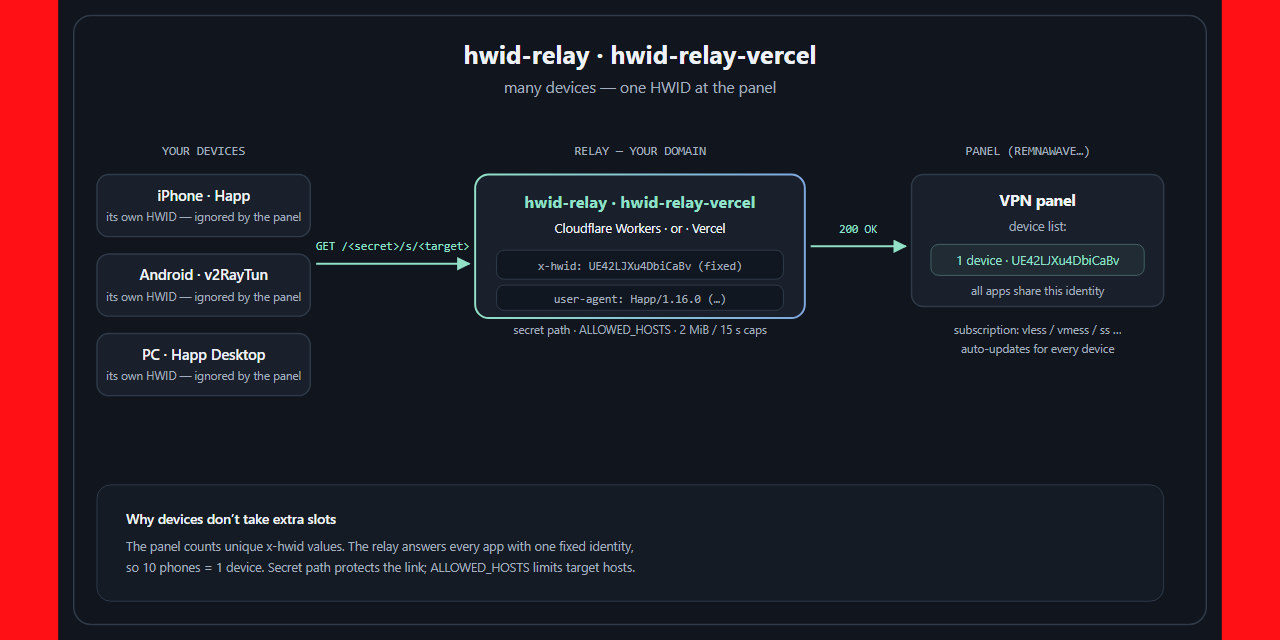
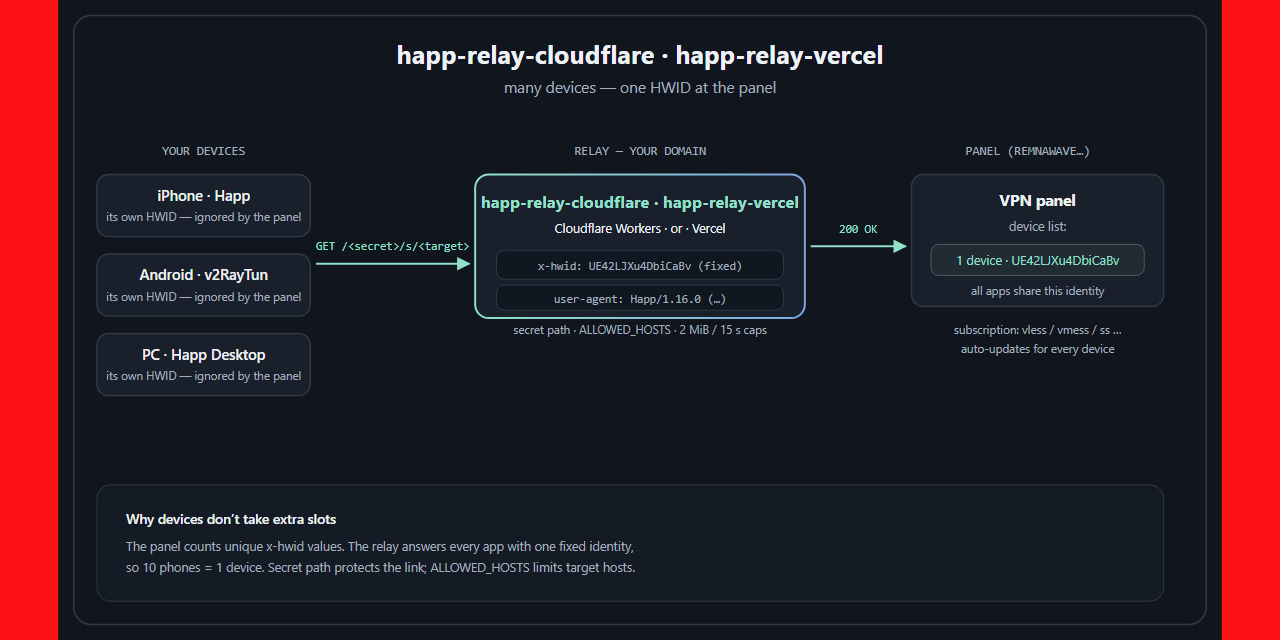
Rename to happ-relay-cloudflare: links, docs, diagram

Changed region(s): [[0.3125, 0.0625, 0.6875, 0.125], [0.375, 0.3125, 0.625, 0.3438]]

diff --git a/README.ru.md b/README.ru.md
@@ -1,7 +1,7 @@
-# hwid-relay
+# happ-relay-cloudflare
 
-[![Tests](https://github.com/cylaro/hwid-relay/actions/workflows/test.yml/badge.svg)](https://github.com/cylaro/hwid-relay/actions/workflows/test.yml)
-[![Deploy to Cloudflare Workers](https://deploy.workers.cloudflare.com/button)](https://deploy.workers.cloudflare.com/?url=https://github.com/cylaro/hwid-relay)
+[![Tests](https://github.com/cylaro/happ-relay-cloudflare/actions/workflows/test.yml/badge.svg)](https://github.com/cylaro/happ-relay-cloudflare/actions/workflows/test.yml)
+[![Deploy to Cloudflare Workers](https://deploy.workers.cloudflare.com/button)](https://deploy.workers.cloudflare.com/?url=https://github.com/cylaro/happ-relay-cloudflare)
 [![License: MIT](https://img.shields.io/badge/License-MIT-blue.svg)](LICENSE)
 
 **Подключайте сколько угодно устройств к панели с лимитом HWID — все они будут считаться одним устройством.**
@@ -18,7 +18,7 @@
 
 Релей меняет точку подключения приложений:
 
-![Архитектура hwid-relay: много устройств — один HWID на панели](docs/architecture.svg)
+![Архитектура happ-relay-cloudflare: много устройств — один HWID на панели](docs/architecture.svg)
 
 ---
 
@@ -37,9 +37,9 @@
 ### Шаг 1 — Разверните воркер
 
 1. Нажмите кнопку **Deploy to Cloudflare** выше (или создайте воркер вручную: dash.cloudflare.com → **Workers & Pages** → **Create** → **Create Worker**).
-2. Задайте имя, например `hwid-relay`, и завершите деплой.
+2. Задайте имя, например `happ-relay-cloudflare`, и завершите деплой.
 
-Теперь у вас есть воркер по адресу `https://hwid-relay.<ваш-поддомен>.workers.dev`.
+Теперь у вас есть воркер по адресу `https://happ-relay-cloudflare.<ваш-поддомен>.workers.dev`.
 
 ### Шаг 2 — Соберите ссылку для устройств
 
@@ -70,7 +70,7 @@ https://your-worker.workers.dev/<secret>/s/https://panel-provider.com/sub/6f9a2b
 
 В панели Cloudflare:
 
-1. **Workers & Pages** → `hwid-relay` → **Settings** → **Variables and Secrets**.
+1. **Workers & Pages** → `happ-relay-cloudflare` → **Settings** → **Variables and Secrets**.
 2. Добавьте каждую переменную ниже с типом **Text** и в конце нажмите **Deploy**:
 
 | Имя | Значение |
@@ -89,7 +89,7 @@ https://your-worker.workers.dev/<secret>/s/https://panel-provider.com/sub/6f9a2b
 Откройте:
 
 ```
-https://hwid-relay.<ваш-поддомен>.workers.dev/hX7kQ2mV/health
+https://happ-relay-cloudflare.<ваш-поддомен>.workers.dev/hX7kQ2mV/health
 ```
 
 Ожидаемый ответ:
@@ -105,7 +105,7 @@ https://hwid-relay.<ваш-поддомен>.workers.dev/hX7kQ2mV/health
 Откройте в браузере:
 
 ```
-https://hwid-relay.<ваш-поддомен>.workers.dev/hX7kQ2mV/s/6f9a2b1c-4e7d-4c1a-9b2e-8f5d3a7c1e2f
+https://happ-relay-cloudflare.<ваш-поддомен>.workers.dev/hX7kQ2mV/s/6f9a2b1c-4e7d-4c1a-9b2e-8f5d3a7c1e2f
 ```
 
 Вы должны увидеть содержимое подписки (текстовый список `vless://...`, Base64 или подобное). Это доказательство, что панель приняла ваш HWID — релей всегда отправляет именно эти заголовки.
@@ -119,7 +119,7 @@ https://hwid-relay.<ваш-поддомен>.workers.dev/hX7kQ2mV/s/6f9a2b1c-4e7
 В каждом приложении (Happ, v2RayTun, …) добавьте подписку по URL:
 
 ```
-https://hwid-relay.<ваш-поддомен>.workers.dev/hX7kQ2mV/s/6f9a2b1c-4e7d-4c1a-9b2e-8f5d3a7c1e2f
+https://happ-relay-cloudflare.<ваш-поддомен>.workers.dev/hX7kQ2mV/s/6f9a2b1c-4e7d-4c1a-9b2e-8f5d3a7c1e2f
 ```
 
 Готово. Обновите подписку на всех устройствах — на панели по-прежнему одно устройство. Отображение трафика тоже работает (`subscription-userinfo` пробрасывается).
@@ -167,7 +167,7 @@ npx wrangler dev    # локальный запуск воркера
 ## Связанные проекты
 
 - [happ-decryptor](https://github.com/cylaro/happ-decryptor) — расшифровка `happ://crypt…`-ссылок, редактирование URL, запросы с заголовками устройства.
-- [hwid-relay-vercel](https://github.com/cylaro/hwid-relay-vercel) — тот же релей «много устройств — один HWID» на Vercel, через serverless-функцию.
+- [happ-relay-cloudflare-vercel](https://github.com/cylaro/happ-relay-cloudflare-vercel) — тот же релей «много устройств — один HWID» на Vercel, через serverless-функцию.
 
 ## Поддержать / Donate
 
